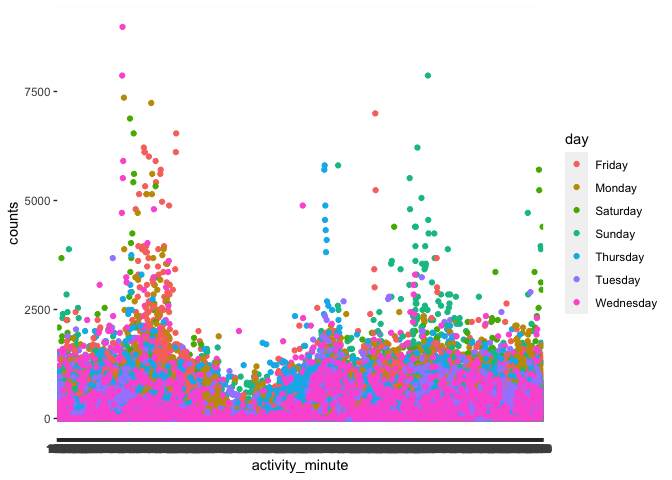
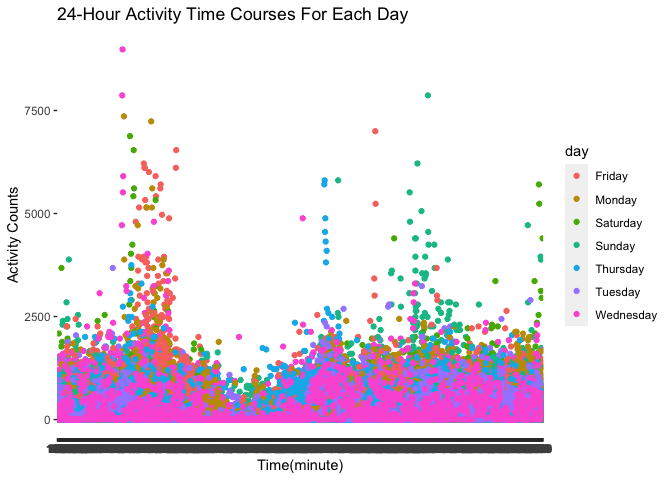
add lables to the plot

diff --git a/p8105_hw3_zc2610.md b/p8105_hw3_zc2610.md
@@ -141,7 +141,12 @@ day
 ``` r
 acc_df %>% 
    ggplot(aes(x = activity_minute,y = counts,color = day)) +
-   geom_point() 
+   geom_point() +
+   labs(
+    title = "24-Hour Activity Time Courses For Each Day",
+    x = "Time(minute)",
+    y = "Activity Counts"
+  )
 ```
 
 ![](p8105_hw3_zc2610_files/figure-gfm/unnamed-chunk-7-1.png)<!-- -->
